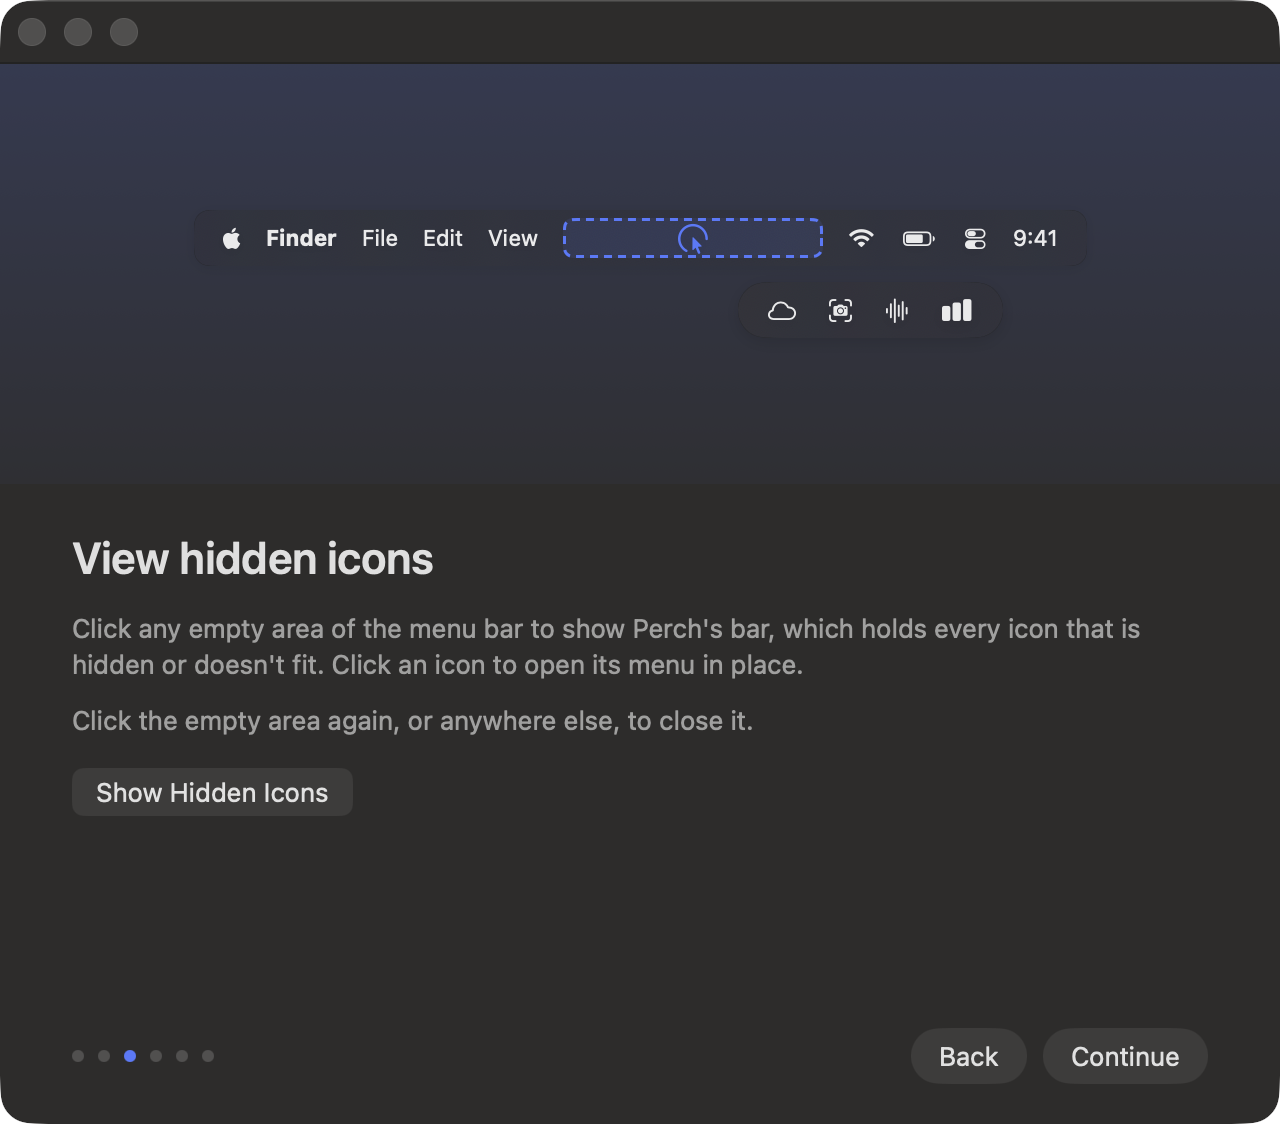
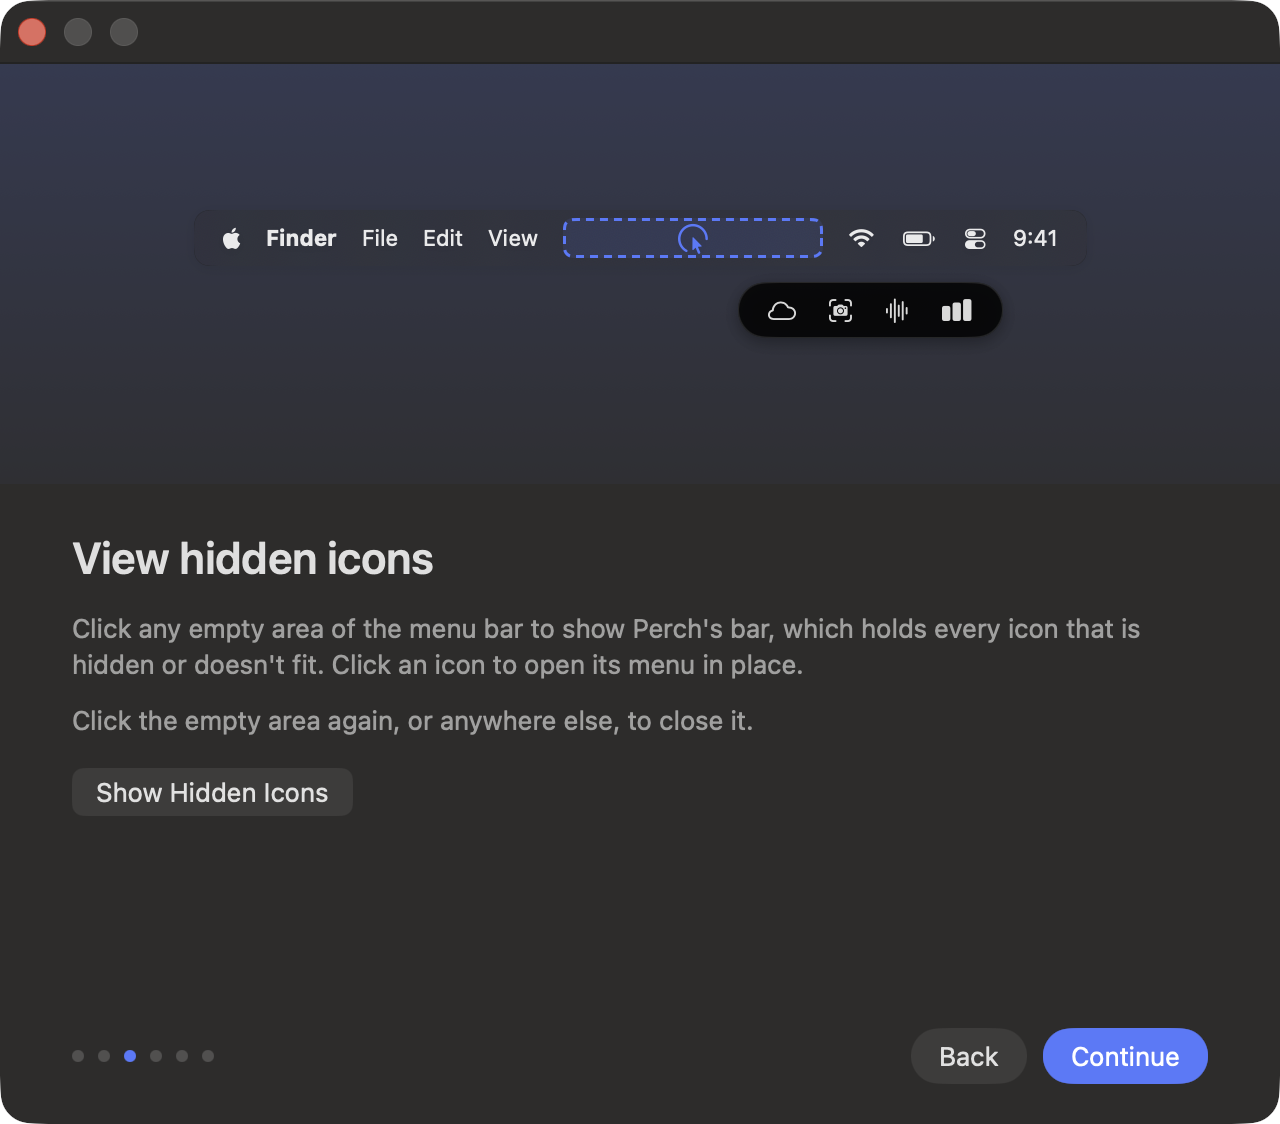
Make Perch's bar and Arrange dark
Perch's bar is now a dark pill and Arrange uses the same dark glass, so
both stand out over any window, light or dark. Icon pictures taken on a
light menu bar are turned light, keeping their colors. The welcome
tour's pictures of them match.

Changed region(s): [[0.5625, 0.2491, 0.7812, 0.3114], [0.8125, 0.903, 0.9688, 0.9653], [0.0, 0.0, 0.0312, 0.0623]]

diff --git a/Perch/Panel/ArrangeView.swift b/Perch/Panel/ArrangeView.swift
@@ -207,7 +207,7 @@ struct ArrangeBar: View {
         let targeted = drag != nil && targetRow == row && row != .off
         let shape = RoundedRectangle(cornerRadius: 8, style: .continuous)
         ZStack {
-            shape.fill(Color.primary.opacity(row == .bar ? 0.08 : 0.035))
+            shape.fill(Color.white.opacity(row == .bar ? 0.08 : 0.04))
             if targeted { shape.strokeBorder(Color.accentColor.opacity(0.7), lineWidth: 1.5) }
         }
     }
@@ -220,7 +220,7 @@ struct ArrangeBar: View {
                 .opacity(drag?.slot == .perch ? 0 : 1)
         case .icon(let key):
             if let item = item(key) {
-                BarIcon(item: item, image: images.image(for: item),
+                BarIcon(item: item, image: images.image(for: item), invert: !images.iconsAreLight,
                         width: row == .off ? nil : item.frame.width,
                         waiting: engine.isArranging ? nil : waitingNote(for: item, in: row),
                         clickable: onOpenItem != nil && row != .off && !engine.isArranging)
@@ -254,13 +254,14 @@ struct ArrangeBar: View {
                     PerchMark(preferences: preferences, width: engine.perchWidth)
                 case .icon(let key):
                     if let item = item(key) {
-                        BarIcon(item: item, image: images.image(for: item), width: nil, waiting: nil, clickable: false)
+                        BarIcon(item: item, image: images.image(for: item), invert: !images.iconsAreLight,
+                                width: nil, waiting: nil, clickable: false)
                     }
                 }
             }
             .frame(width: frame.width, height: frame.height)
-            .background(RoundedRectangle(cornerRadius: 6, style: .continuous).fill(.regularMaterial))
-            .shadow(color: .black.opacity(0.2), radius: 4, y: 1)
+            .background(RoundedRectangle(cornerRadius: 6, style: .continuous).fill(Color(white: 0.24)))
+            .shadow(color: .black.opacity(0.35), radius: 5, y: 2)
             .offset(x: drag.location.x - drag.grab.width, y: drag.location.y - drag.grab.height)
             .allowsHitTesting(false)
         }
@@ -464,6 +465,8 @@ private struct PerchMark: View {
 private struct BarIcon: View {
     let item: MenuBarItem
     let image: NSImage?
+    /// The picture was taken on a light menu bar; Arrange is dark.
+    let invert: Bool
     /// The icon's real width in the bar, so rows are drawn to scale.
     let width: CGFloat?
     /// Why it's drawn faded: it isn't in its row's spot yet (no room, or its
@@ -479,6 +482,7 @@ private struct BarIcon: View {
                     .resizable()
                     .interpolation(.high)
                     .aspectRatio(contentMode: .fit)
+                    .modifier(LightOnDark(active: invert))
                     .frame(height: min(image.size.height, 24))
                     .frame(minWidth: width == nil ? 22 : nil)
             } else {
@@ -545,10 +549,6 @@ struct ArrangePanelView: View {
     let onOpenItem: (MenuBarItem) -> Void
     let onOpenSettings: () -> Void
 
-    /// Pictures of icons look as they do in the menu bar, so the panel takes
-    /// the menu bar's look (light or dark), like Perch's bar.
-    @ObservedObject private var pictures: IconImages
-
     init(engine: LayoutEngine, preferences: Preferences, permissions: Permissions, images: IconImages,
          maxWidth: CGFloat, onOpenItem: @escaping (MenuBarItem) -> Void, onOpenSettings: @escaping () -> Void) {
         self.engine = engine
@@ -558,11 +558,6 @@ struct ArrangePanelView: View {
         self.maxWidth = maxWidth
         self.onOpenItem = onOpenItem
         self.onOpenSettings = onOpenSettings
-        self.pictures = images
-    }
-
-    private var hasPictures: Bool {
-        engine.items.contains { $0.isInMenuBar && pictures.image(for: $0) != nil }
     }
 
     var body: some View {
@@ -572,13 +567,7 @@ struct ArrangePanelView: View {
             .padding(8)
             .frame(minWidth: 280, alignment: .leading)
             .fixedSize()
-            .background(.regularMaterial)
-            .clipShape(RoundedRectangle(cornerRadius: 12, style: .continuous))
-            .overlay(
-                RoundedRectangle(cornerRadius: 12, style: .continuous)
-                    .strokeBorder(Color.primary.opacity(0.1), lineWidth: 0.5)
-            )
-            .modifier(MatchIconColors(images: pictures, active: hasPictures))
+            .perchSurface(RoundedRectangle(cornerRadius: 14, style: .continuous))
             .contextMenu {
                 Button("Settings…", action: onOpenSettings)
                 Divider()

diff --git a/Perch/Panel/DrawerController.swift b/Perch/Panel/DrawerController.swift
@@ -196,7 +196,7 @@ struct DrawerView: View {
                     .padding(.horizontal, 10)
             } else {
                 ForEach(hidden) { item in
-                    DrawerIcon(item: item, image: images.image(for: item),
+                    DrawerIcon(item: item, image: images.image(for: item), invert: !images.iconsAreLight,
                                isActive: state.activeKey == item.key, onOpen: onOpen)
                         .contextMenu { priorityMenu(for: item) }
                 }
@@ -205,9 +205,7 @@ struct DrawerView: View {
         .frame(minHeight: 24)
         .padding(.horizontal, 4)
         .padding(.vertical, 2)
-        .background(.regularMaterial, in: Capsule(style: .continuous))
-        .overlay(Capsule(style: .continuous).strokeBorder(Color.primary.opacity(0.08), lineWidth: 0.5))
-        .modifier(MatchIconColors(images: images, active: hidden.contains { images.image(for: $0) != nil }))
+        .perchSurface(Capsule(style: .continuous))
         .fixedSize()
         .padding(1)
     }
@@ -225,21 +223,6 @@ struct DrawerView: View {
     }
 }
 
-/// Pictures of icons are drawn for the menu bar behind them, so give the drawer
-/// the same light or dark look. With no pictures yet, follow the system.
-struct MatchIconColors: ViewModifier {
-    @ObservedObject var images: IconImages
-    let active: Bool
-
-    func body(content: Content) -> some View {
-        if active {
-            content.environment(\.colorScheme, images.iconsAreLight ? .dark : .light)
-        } else {
-            content
-        }
-    }
-}
-
 /// What Perch's bar is showing right now.
 @MainActor
 final class DrawerState: ObservableObject {
@@ -249,6 +232,8 @@ final class DrawerState: ObservableObject {
 private struct DrawerIcon: View {
     let item: MenuBarItem
     let image: NSImage?
+    /// The picture was taken on a light menu bar, so it's dark; Perch's bar is dark.
+    let invert: Bool
     let isActive: Bool
     let onOpen: (MenuBarItem, CGFloat) -> Void
     @State private var hovering = false
@@ -263,6 +248,7 @@ private struct DrawerIcon: View {
                         .resizable()
                         .interpolation(.high)
                         .aspectRatio(contentMode: .fit)
+                        .modifier(LightOnDark(active: invert))
                         .frame(height: min(image.size.height, 24))
                         .frame(minWidth: 26)
                 } else {
@@ -287,5 +273,31 @@ private struct DrawerIcon: View {
         })
         .help(item.displayName)
         .accessibilityLabel(item.displayName)
+    }
+}
+
+
+/// Perch's bar and Arrange are always dark, so they stand out over any window.
+extension View {
+    func perchSurface(_ shape: some InsettableShape) -> some View {
+        background {
+            shape.fill(Color.black.opacity(0.82))
+                .background(.ultraThinMaterial, in: shape)
+                .overlay(shape.strokeBorder(Color.white.opacity(0.12), lineWidth: 0.5))
+        }
+        .environment(\.colorScheme, .dark)
+    }
+}
+
+/// Icon pictures taken on a light menu bar are dark; on Perch's dark surfaces
+/// they're turned light, keeping each color's hue (invert, then rotate the hue back).
+struct LightOnDark: ViewModifier {
+    let active: Bool
+    func body(content: Content) -> some View {
+        if active {
+            content.colorInvert().hueRotation(.degrees(180))
+        } else {
+            content
+        }
     }
 }

diff --git a/Perch/Panel/WelcomeView.swift b/Perch/Panel/WelcomeView.swift
@@ -329,8 +329,8 @@ private struct MiniDrawer: View {
         }
         .padding(.horizontal, 14)
         .frame(height: 28)
-        .background(.regularMaterial, in: Capsule())
-        .shadow(color: .black.opacity(0.12), radius: 4, y: 2)
+        .perchSurface(Capsule(style: .continuous))
+        .shadow(color: .black.opacity(0.2), radius: 4, y: 2)
     }
 }
 
@@ -346,16 +346,16 @@ private struct MiniArrange: View {
         }
         .padding(8)
         .frame(width: 340)
-        .background(.regularMaterial, in: RoundedRectangle(cornerRadius: 12, style: .continuous))
-        .shadow(color: .black.opacity(0.12), radius: 5, y: 2)
+        .perchSurface(RoundedRectangle(cornerRadius: 12, style: .continuous))
+        .shadow(color: .black.opacity(0.2), radius: 5, y: 2)
         .overlay(alignment: .topLeading) {
             // An icon on its way from the bar to Hidden.
             HStack(spacing: 2) {
                 Image(systemName: "waveform")
                     .font(.system(size: 12))
                     .frame(width: 26, height: 22)
-                    .background(.regularMaterial, in: RoundedRectangle(cornerRadius: 6))
-                    .shadow(color: .black.opacity(0.2), radius: 3, y: 1)
+                    .background(Color(white: 0.24), in: RoundedRectangle(cornerRadius: 6))
+                    .shadow(color: .black.opacity(0.35), radius: 3, y: 1)
                 Image(systemName: "arrow.down.right")
                     .font(.system(size: 11, weight: .semibold))
                     .foregroundStyle(Color.accentColor)
@@ -374,7 +374,7 @@ private struct MiniArrange: View {
         }
         .padding(.horizontal, 12)
         .frame(height: 30)
-        .background(Color.primary.opacity(fill), in: RoundedRectangle(cornerRadius: 8, style: .continuous))
+        .background(Color.white.opacity(fill), in: RoundedRectangle(cornerRadius: 8, style: .continuous))
     }
 }
 
@@ -430,8 +430,8 @@ private struct MiniSettings: View {
                     Text("Quit Perch").font(.system(size: 12)).padding(.horizontal, 10)
                 }
                 .padding(6)
-                .background(.regularMaterial, in: RoundedRectangle(cornerRadius: 8, style: .continuous))
-                .shadow(color: .black.opacity(0.12), radius: 4, y: 2)
+                .perchSurface(RoundedRectangle(cornerRadius: 8, style: .continuous))
+                .shadow(color: .black.opacity(0.2), radius: 4, y: 2)
             }
 
             Image(systemName: "arrow.right").foregroundStyle(.secondary)

diff --git a/docs/FEATURES.md b/docs/FEATURES.md
@@ -22,7 +22,7 @@ Perch is a light menu bar manager for macOS. The goal: the menu bar macOS should
 
 | Feature | How it works |
 |---|---|
-| Perch's bar | Click empty menu bar space (or Perch's line or icon). Every icon that's hidden or doesn't fit, under the menu bar. Clicking one opens its menu there: Perch copies the off-screen menu through Accessibility (panels are moved instead). The bar stays open with that icon highlighted, like the menu bar, and closes once you pick something. A divider stretched 10,000 pt keeps those icons off screen. |
+| Perch's bar | Click empty menu bar space (or Perch's line or icon). Every icon that's hidden or doesn't fit, in a dark pill under the menu bar (Arrange uses the same dark glass, so both stand out over any window; icon pictures taken on a light menu bar are turned light). Clicking one opens its menu there: Perch copies the off-screen menu through Accessibility (panels are moved instead). The bar stays open with that icon highlighted, like the menu bar, and closes once you pick something. A divider stretched 10,000 pt keeps those icons off screen. |
 | In the menu bar | Nothing (default), a line, or an icon. With nothing, Accessibility tells Perch a click landed on the front app's empty bar, not an icon. Without Accessibility the icon stays. |
 | Order | Each icon is in the bar or Hidden, and the bar's order is its priority: when it runs out of room, the leftmost icons wait in Hidden. Perch moves its own divider to match (instant) on launch, a change in Arrange, display change, wake, unlock, and app launch or quit. |
 | Arrange | Right-click empty menu bar space. Rows that mirror the bar: Menu bar (in order, Perch's own item included), Hidden, Turned off. Drag an icon to any spot. Instant when only the divider has to move (hiding the leftmost icon, showing the rightmost hidden one) and for any order inside Hidden, which Perch keeps itself. Otherwise Arrange shows the new order right away and the bar follows when Arrange closes: Perch saves new positions for the icons that have to move (as few as possible, never a sandboxed app's) and restarts Control Center once, which places every app's icon at its saved spot (about a second; Apple's icons blink and Focus shows its name). Apps are never restarted. A move Perch can't make is refused with a note, and so is an icon that didn't land. Turned-off icons open System Settings → Menu Bar. Rows are drawn to scale and end where the screen does; on another display, a MacBook mark shows where a MacBook's bar would cut off (learned the last time Perch saw the built-in screen). |

diff --git a/README.md b/README.md
@@ -10,7 +10,7 @@ A light menu bar manager for macOS. Perch hides the menu bar icons you don't nee
 
 ## What it does
 
-- **Click empty menu bar space for Perch's bar.** Every icon that's hidden or doesn't fit drops down in a small bar under the menu bar. Click one and its menu opens right there, like any menu, with Perch's bar still showing. Nothing moves in the menu bar (if an app's menu can't be copied, Perch shows its icons for a moment instead). Perch adds nothing to your bar unless you want it to: a thin line or an icon are options in Settings.
+- **Click empty menu bar space for Perch's bar.** Every icon that's hidden or doesn't fit drops down in a small dark bar under the menu bar, easy to see over any window. Click one and its menu opens right there, like any menu, with Perch's bar still showing. Nothing moves in the menu bar (if an app's menu can't be copied, Perch shows its icons for a moment instead). Perch adds nothing to your bar unless you want it to: a thin line or an icon are options in Settings.
 - **Put every icon where you want it.** Arrange mirrors your menu bar: the bar in order, then Hidden, then icons turned off in System Settings. Drag an icon anywhere and Perch moves the real one there. Order is priority: when the bar is full, icons on the left wait in Hidden until there's room.
 - **Fits your screen.** On a laptop, icons that would land behind the notch go to Perch's bar instead, in your order.
 - **Exact pictures (optional).** Perch's bar shows app icons, or with Screen Recording (in Settings), the icons exactly as they look.

diff --git a/docs/HANDOFF.md b/docs/HANDOFF.md
@@ -41,6 +41,7 @@
 35. `perch-minimal-settings`: Settings is one short page (open at login, what's in the menu bar, exact pictures, icon spacing, version and Quit). The Icons tab (a copy of Arrange) and the About tab are gone, and so is the Settings hold on moves.
 36. `perch-minimal-arrange`: Arrange is just its rows: no title, no ⋯ button, no label column. Hidden and Turned off name themselves faintly inside the row when there's room; the bar row shows a spinner there while icons move. The whole panel takes the menu bar's look when it has icon pictures, like Perch's bar. Settings and Quit are a right-click on the panel, or ⌘,.
 37. `perch-minimal-welcome`: a six-page welcome tour in its own window on first launch: what Perch is, Accessibility (live), click to see hidden icons, right-click to arrange, Spotlight, and where Settings are (with Open at login and the bar item right there). Each page has a try-it button. Settings has a Welcome Tour link to reopen it.
+38. `perch-dark-bar`: Perch's bar is a dark pill and Arrange uses the same dark glass (`perchSurface`), so both stand out over any window. Icon pictures taken on a light menu bar are inverted with their hue kept (`LightOnDark`). `MatchIconColors` is gone.
 
 ## macOS 26 facts
 - Reading or writing another app's sandbox container (~/Library/Containers/<id>) triggers the "access data from other apps" prompt (kTCCServiceSystemPolicyAppData) and the call blocks until it's answered. Perch tells sandboxed apps by their code signature, never by touching the container.
